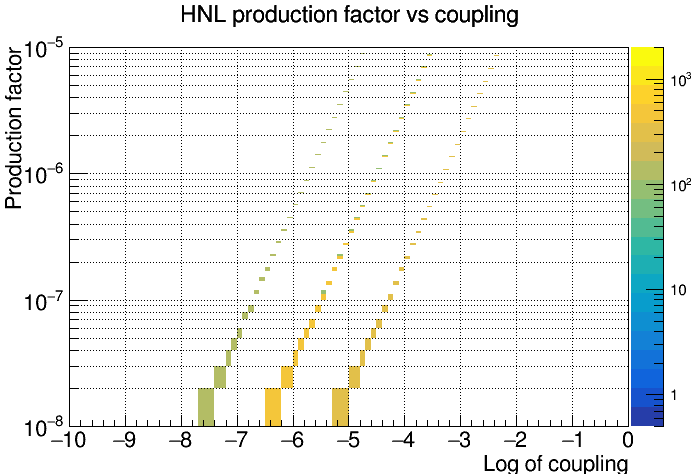
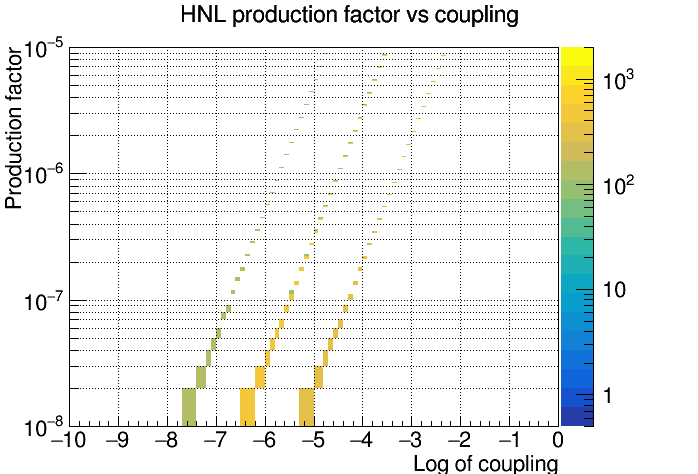
update

diff --git a/MyScripts/Others/CreatePlotsPDFReportScanCoupling.C b/MyScripts/Others/CreatePlotsPDFReportScanCoupling.C
@@ -34,12 +34,13 @@ void CreatePlotsPDFReportScanCoupling() {
       h2->GetYaxis()->SetTitleSize(labelSize);
       h2->GetXaxis()->SetLabelSize(labelSize);
       h2->GetYaxis()->SetLabelSize(labelSize);
+      h2->GetZaxis()->SetLabelSize(labelSize);
       gStyle->SetOptStat(0);
       gPad->SetLogy();
       gPad->SetLogz();
       gPad->SetGridx();
       gPad->SetGridy();
-      gPad->Update();
+      c1->SetRightMargin(0.2);
       h2->Draw("colz");    
     }
    
